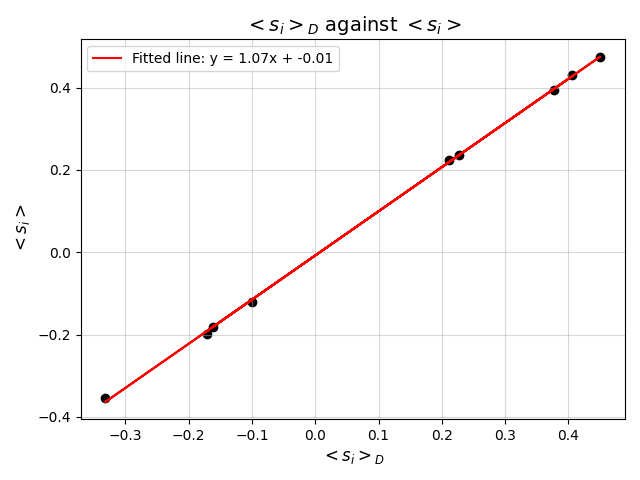
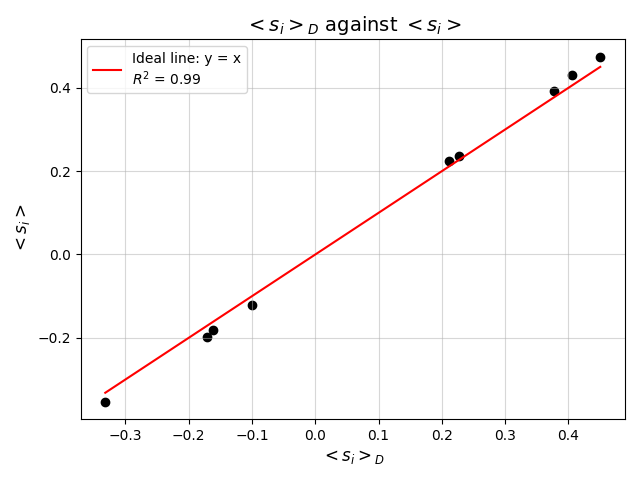
add R^2 values to fitted scatter plots

diff --git a/src/tcs/supreme_court.py b/src/tcs/supreme_court.py
@@ -51,7 +51,7 @@ class SupremeCourt:
         _, counts = np.unique(self.data, axis=0, return_counts=True)
 
         # Calculate p_D(s)
-        self.p_D = counts / self.n
+        self.p_D = counts / len(self.data)
     
     def calculate_model_values(self):
         """
@@ -178,16 +178,20 @@ class SupremeCourt:
         self.calculate_empirical_values()
         self.calculate_model_values()
 
-        coeffs = np.polyfit(self.p_D, self.p_g, 1)
+        # Calculate R^2 value
+        residuals = self.p_g - self.p_D
+        ss_res = np.sum(residuals**2)
+        ss_tot = np.sum((self.p_D - np.mean(self.p_D))**2)
+        r_squared = 1 - (ss_res / ss_tot)
 
         # Plot the probability of pg(s) against pD(s)
         plt.figure()
         plt.scatter(self.p_D, self.p_g, marker='o', color='black')
         plt.plot(
-            self.p_D, 
-            coeffs[0] * self.p_D + coeffs[1], 
+            [min(self.p_D), max(self.p_D)],
+            [min(self.p_D), max(self.p_D)], 
             color='red', 
-            label=f'Fitted line: y = {coeffs[0]:.2f}x + {coeffs[1]:.2f}'
+            label=f'Ideal line: y = x\n$R^2$ = {r_squared:.2f}'
             )
         
         plt.title(r"$p_D(s)$ against $p_g(s)$", fontsize=14)
@@ -203,58 +207,64 @@ class SupremeCourt:
             plt.show()
 
     def plot_averages_cross_validation(self, avg_save_path=None, corr_save_path=None): 
-            """
-            Plot the average cross-validation results.
-            """
-            self.calculate_empirical_values()
-            self.calculate_model_values()
+        """
+        Plot the average cross-validation results.
+        """
+        self.calculate_empirical_values()
+        self.calculate_model_values()
 
-            # Plot the average <si>_D against <si>
-            plt.figure()
-            plt.scatter(self.mean_si_empirical, self.mean_si_model, marker='o', color='black')
-            coeffs = np.polyfit(self.mean_si_empirical, self.mean_si_model, 1)
-            plt.plot(
-                self.mean_si_empirical, 
-                coeffs[0] * self.mean_si_empirical + coeffs[1], 
-                color='red', 
-                label=f'Fitted line: y = {coeffs[0]:.2f}x + {coeffs[1]:.2f}'
-                )
-            plt.title(r"$<s_i>_D$ against $<s_i>$", fontsize=14)
-            plt.xlabel(r"$<s_i>_D$", fontsize=12)
-            plt.ylabel(r"$<s_i>$", fontsize=12)
-            plt.grid(visible=True, alpha=0.5)
-            plt.legend()
-            plt.tight_layout()
-            if avg_save_path: 
-                plt.savefig(avg_save_path)
-            else: 
-                plt.show()
+        # Plot the average <si>_D against <si>
+        plt.figure()
+        plt.scatter(self.mean_si_empirical, self.mean_si_model, marker='o', color='black')
+        residuals = self.mean_si_model - self.mean_si_empirical
+        ss_res = np.sum(residuals**2)
+        ss_tot = np.sum((self.mean_si_empirical - np.mean(self.mean_si_empirical))**2)
+        r_squared = 1 - (ss_res / ss_tot)
+        plt.plot(
+            [min(self.mean_si_empirical), max(self.mean_si_empirical)], 
+            [min(self.mean_si_empirical), max(self.mean_si_empirical)], 
+            color='red', 
+            label=f'Ideal line: y = x\n$R^2$ = {r_squared:.2f}'
+            )
+        plt.title(r"$<s_i>_D$ against $<s_i>$", fontsize=14)
+        plt.xlabel(r"$<s_i>_D$", fontsize=12)
+        plt.ylabel(r"$<s_i>$", fontsize=12)
+        plt.grid(visible=True, alpha=0.5)
+        plt.legend()
+        plt.tight_layout()
+        if avg_save_path: 
+            plt.savefig(avg_save_path)
+        else: 
+            plt.show()
 
-            # Plot the correlations <si sj>_D against <si sj>
-            plt.figure()
-            plt.scatter(
-                self.correlation_sisj_empirical.flatten(), 
-                self.correlation_sisj_model.flatten(), 
-                marker='o', 
-                color='black'
-                )
-            coeffs = np.polyfit(self.correlation_sisj_empirical.flatten(), self.correlation_sisj_model.flatten(), 1)
-            plt.plot(
-                self.correlation_sisj_empirical.flatten(), 
-                coeffs[0] * self.correlation_sisj_empirical.flatten() + coeffs[1], 
-                color='red', 
-                label=f'Fitted line: y = {coeffs[0]:.2f}x + {coeffs[1]:.2f}'
-                )
-            plt.title(r"$<s_i s_j>_D$ against $<s_i s_j>$", fontsize=14)
-            plt.xlabel(r"$<s_i s_j>_D$", fontsize=12)
-            plt.ylabel(r"$<s_i s_j>$", fontsize=12)
-            plt.grid(visible=True, alpha=0.5)
-            plt.legend()
-            plt.tight_layout()
-            if corr_save_path: 
-                plt.savefig(corr_save_path)
-            else: 
-                plt.show()
+        # Plot the correlations <si sj>_D against <si sj>
+        plt.figure()
+        plt.scatter(
+            self.correlation_sisj_empirical.flatten(), 
+            self.correlation_sisj_model.flatten(), 
+            marker='o', 
+            color='black'
+            )
+        residuals = self.correlation_sisj_model.flatten() - self.correlation_sisj_empirical.flatten()
+        ss_res = np.sum(residuals**2)
+        ss_tot = np.sum((self.correlation_sisj_empirical.flatten() - np.mean(self.correlation_sisj_empirical.flatten()))**2)
+        r_squared = 1 - (ss_res / ss_tot)
+        plt.plot(
+            [min(self.correlation_sisj_empirical.flatten()), max(self.correlation_sisj_empirical.flatten())], 
+            [min(self.correlation_sisj_empirical.flatten()), max(self.correlation_sisj_empirical.flatten())], 
+            color='red', 
+            label=f'Ideal line: y = x\n$R^2$ = {r_squared:.2f}'
+            )
+        plt.title(r"$<s_i s_j>_D$ against $<s_i s_j>$", fontsize=14)
+        plt.xlabel(r"$<s_i s_j>_D$", fontsize=12)
+        plt.ylabel(r"$<s_i s_j>$", fontsize=12)
+        plt.grid(visible=True, alpha=0.5)
+        plt.legend()
+        plt.tight_layout()
+        if corr_save_path: 
+            plt.savefig(corr_save_path)
+        else: 
+            plt.show()
             
 if __name__ == "__main__":
     results_dir = "results"
